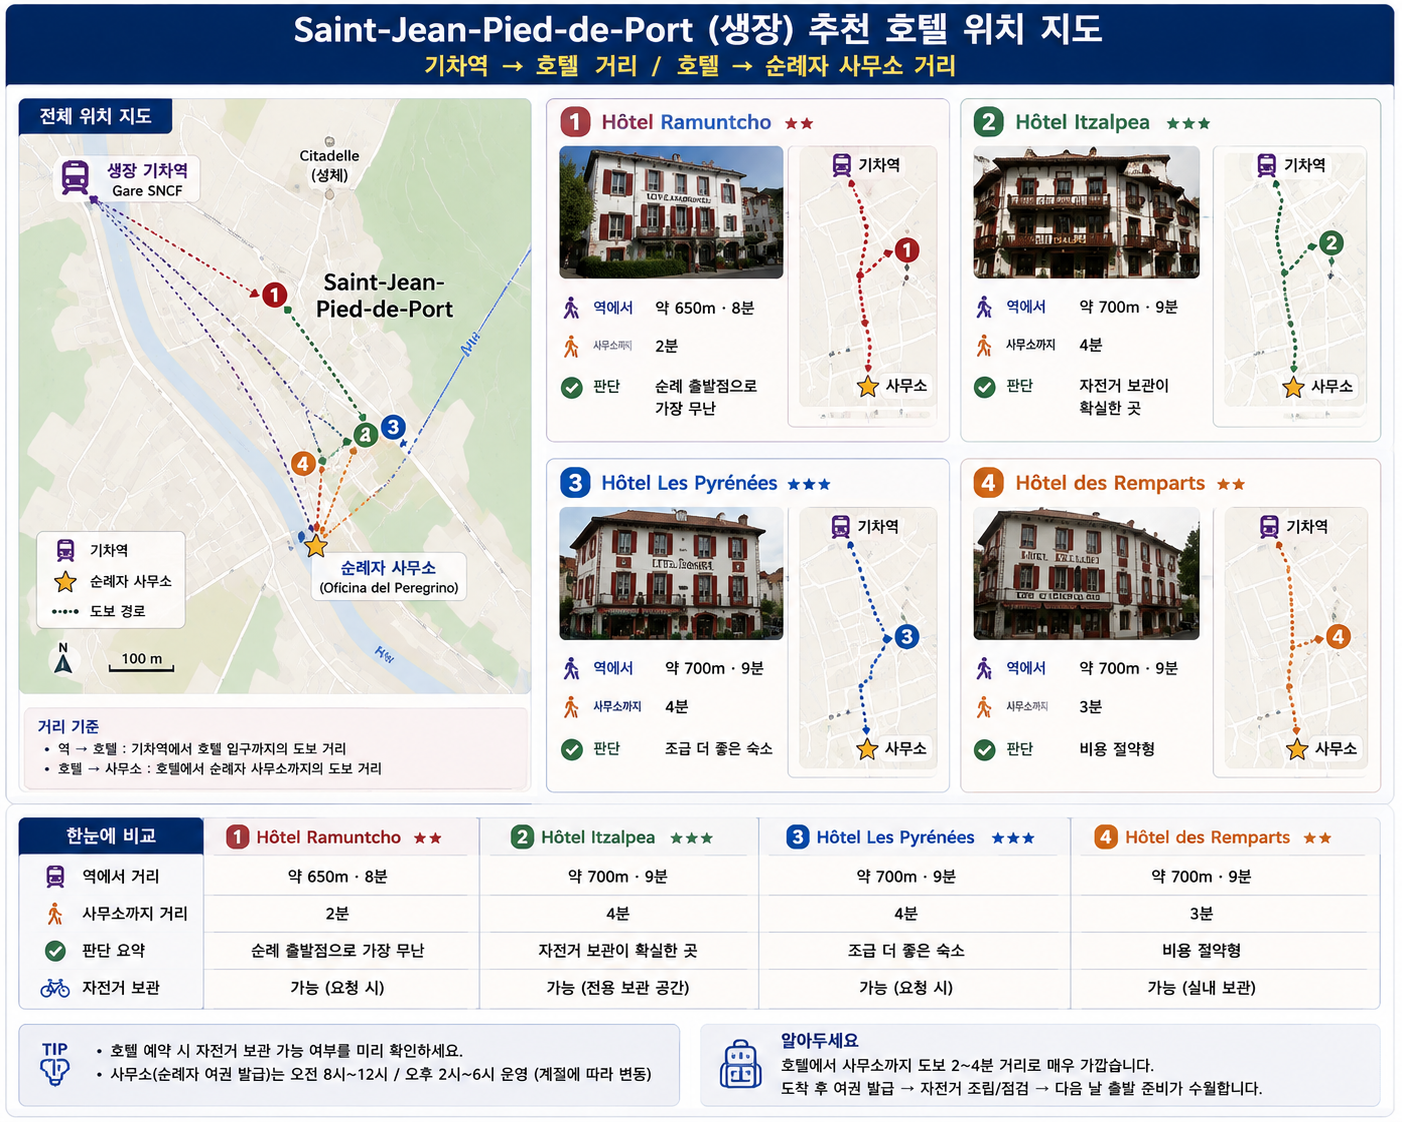
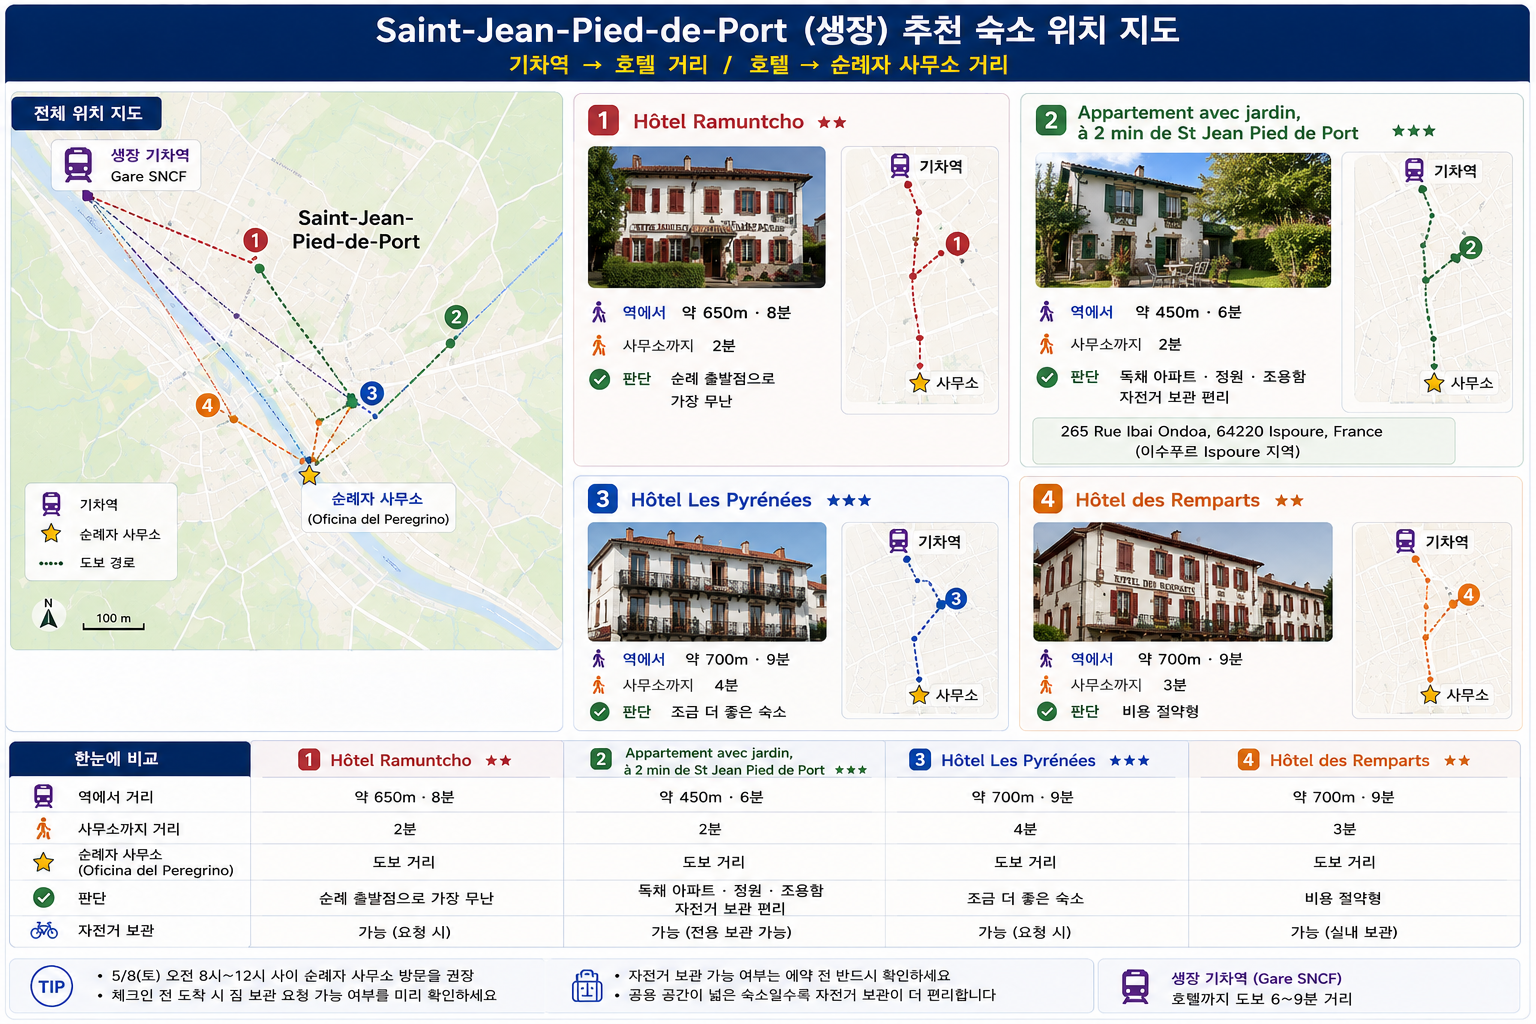
Saint Jean  hotel v2

diff --git a/week-8/camino-frances-bike-2027.html b/week-8/camino-frances-bike-2027.html
@@ -771,6 +771,8 @@
   .stab tr.best .sv{color:#8A6A12}
   .stab tr.bike{background:#F4FAF6}
   .stab tr.bike .sv{color:var(--ok)}
+  .hlink{color:var(--camino-blue);text-decoration:none;border-bottom:1px dotted var(--camino-blue)}
+  .hlink:hover{color:var(--rioja);border-bottom-color:var(--rioja)}
 
   /* ── DAY별 날씨 카드 ───────────────────────────── */
   .dwx{padding:2px 14px 14px}
@@ -1514,7 +1516,7 @@
     </div>
 
     <h3 class="jh3">생장 호텔 후보와 마을 배치</h3>
-    <p class="jp">생장 구시가는 <b>한 덩어리</b>라 어느 호텔에 묵어도 순례자 사무소까지 걸어서 몇 분입니다.
+    <p class="jp">생장 구시가는 <b>한 덩어리</b>라 구시가 안이면 순례자 사무소까지 걸어서 몇 분입니다.
     그래서 위치보다 <b>자전거를 미리 받아 보관해 줄 수 있는지</b>가 훨씬 중요합니다.</p>
 
     <figure class="jfig hmap">
@@ -1573,9 +1575,12 @@
 <text class="hn" x="392" y="228" text-anchor="middle">1</text>
 <text class="hl" x="376" y="212" text-anchor="end">Ramuntcho</text></g>
 
-<g class="h"><circle cx="352" cy="272" r="9" fill="#152A55"/>
-<text class="hn" x="352" y="276" text-anchor="middle">2</text>
-<text class="hl" x="336" y="276" text-anchor="end">Itzalpea</text></g>
+<g class="h"><circle cx="86" cy="70" r="9" fill="#152A55"/>
+<text class="hn" x="86" y="74" text-anchor="middle">2</text>
+<text class="hl" x="102" y="66">아파트 (Ispoure)</text>
+<text class="sm" x="102" y="79">정원 · 자전거 보관</text></g>
+<path d="M92 82 C96 106 100 126 104 140" fill="none" stroke="#152A55" stroke-width="1.8" stroke-dasharray="4 3"/>
+<text class="wk2" x="60" y="116">역까지 8분</text>
 
 <g class="h"><circle cx="470" cy="272" r="9" fill="#152A55"/>
 <text class="hn" x="470" y="276" text-anchor="middle">3</text>
@@ -1594,6 +1599,8 @@
  .st{font-family:"IBM Plex Sans KR",sans-serif;font-size:10px;fill:#8A7F63;text-anchor:middle;letter-spacing:.06em}
  .riv{font-family:"IBM Plex Sans KR",sans-serif;font-size:10px;fill:#4D7E9E}
  .wk{font-family:"IBM Plex Sans KR",sans-serif;font-size:10.5px;font-weight:700;fill:#152A55;
+     paint-order:stroke;stroke:#F7F5EE;stroke-width:3px}
+ .wk2{font-family:"IBM Plex Sans KR",sans-serif;font-size:9.5px;fill:#5B6270;
      paint-order:stroke;stroke:#F7F5EE;stroke-width:3px}
  .gt{font-family:"IBM Plex Sans KR",sans-serif;font-size:11px;font-weight:700;fill:#8A6A12}
  .of{font-family:"IBM Plex Sans KR",sans-serif;font-size:12.5px;font-weight:700;fill:#1E7A46;
@@ -1625,7 +1632,7 @@
         <thead><tr><th></th><th>호텔</th><th>역에서</th><th>사무소까지</th><th>특징</th><th>판단</th></tr></thead>
         <tbody>
           <tr class="best"><td class="sno">1</td><td><b>Hôtel Ramuntcho</b><small>1 rue de France</small></td><td class="sd">약 650 m · 도보 8분</td><td class="sd">도보 2분</td><td><ul class="stag"><li>구시가 성벽 아래</li><li>자전거 여행객 환영</li><li>레스토랑 · 테라스</li><li>무료 주차</li></ul></td><td class="sv">순례 출발점으로 가장 무난</td></tr>
-          <tr class="bike"><td class="sno">2</td><td><b>Hôtel Itzalpea</b><small>5 place du Trinquet</small></td><td class="sd">약 700 m · 도보 9분</td><td class="sd">도보 4분</td><td><ul class="stag"><li>2성급</li><li>안전한 자전거 보관소</li><li>자전거·도보 여행객 많음</li><li>아침 평이 좋음</li></ul></td><td class="sv">자전거 보관이 확실한 곳</td></tr>
+          <tr class="bike"><td class="sno">2</td><td><b><a class="hlink" href="https://www.booking.com/hotel/fr/appartement-avec-jardin-a-2-min-de-st-jean-pied-de-port.html" target="_blank" rel="noopener">Appartement avec jardin</a></b><small>265 Rue Ibai Ondoa, 64220 Ispoure · 생장 바로 북쪽 마을</small></td><td class="sd">약 600 m · 도보 8분</td><td class="sd">도보 13~15분</td><td><ul class="stag"><li>정원 있는 아파트</li><li>자전거 둘 공간</li><li>주방</li><li>조용함</li><li>니브 강변</li></ul></td><td class="sv">정원에 자전거 보관</td></tr>
           <tr><td class="sno">3</td><td><b>Hôtel Les Pyrénées</b><small>19 place Charles de Gaulle</small></td><td class="sd">약 700 m · 도보 9분</td><td class="sd">도보 4분</td><td><ul class="stag"><li>4성급</li><li>옛 역참 여관</li><li>수영장 · 레스토랑</li></ul></td><td class="sv">조금 더 좋은 숙소</td></tr>
           <tr><td class="sno">4</td><td><b>Hôtel des Remparts</b><small>16 place Floquet</small></td><td class="sd">약 700 m · 도보 9분</td><td class="sd">도보 3분</td><td><ul class="stag"><li>성벽 바로 옆</li><li>중심가</li><li>실속형</li></ul></td><td class="sv">비용 절약형</td></tr>
         </tbody>
@@ -1641,6 +1648,7 @@
           생장의 오래된 건물은 계단이 좁아 객실까지 들고 올라가기 어렵습니다</li>
         <li>5/9 아침 <b>이른 출발</b>이 가능한지 — 6시대에 나가려면 열쇠 반납 방법을 미리 정해 두세요</li>
         <li>아침 식사 시각 — 대개 07:30부터라 그보다 일찍 나가려면 전날 밤 간식을 챙겨야 합니다</li>
+        <li><b>아파트를 고른다면</b> — 프런트가 없어 <b>자전거를 받아 줄 사람이 없습니다</b>. 호스트와 렌트 업체의 배달 시간을 미리 맞춰 두거나, 체크인 뒤에 받도록 하세요. 셀프 체크인 방식과 열쇠 받는 곳도 미리 확인합니다</li>
       </ul>
       <p class="hcaveat">성급·주소·도보 시간은 대략값입니다. 예약 화면과 지도에서 다시 확인하세요.
       5월은 순례 성수기라 <b>일찍 예약</b>해야 합니다.</p>
@@ -5718,7 +5726,7 @@ window.CAMINO_SPOTS=CAMINO_SPOTS;
    아이폰 사파리는 HTML 을 오래 붙들고 있어서 새 파일을 올려도 예전 화면이 나올 수 있습니다.
    아래 번호가 최신인지 확인하고, 다르면 [↻ 최신본] 을 누르세요. */
 (function(){
-  var BUILD="20260822-0216";
+  var BUILD="20260822-0242";
   function paint(){
     document.querySelectorAll(".buildver").forEach(function(el){ el.textContent="v"+BUILD; });
     document.querySelectorAll(".buildreload").forEach(function(b){
